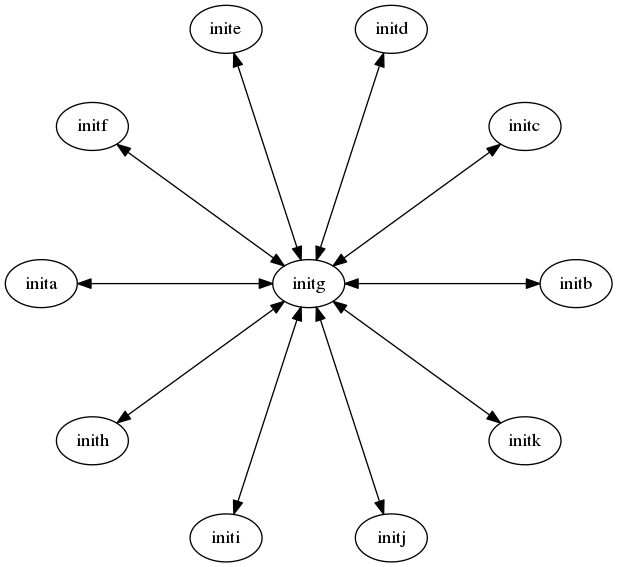
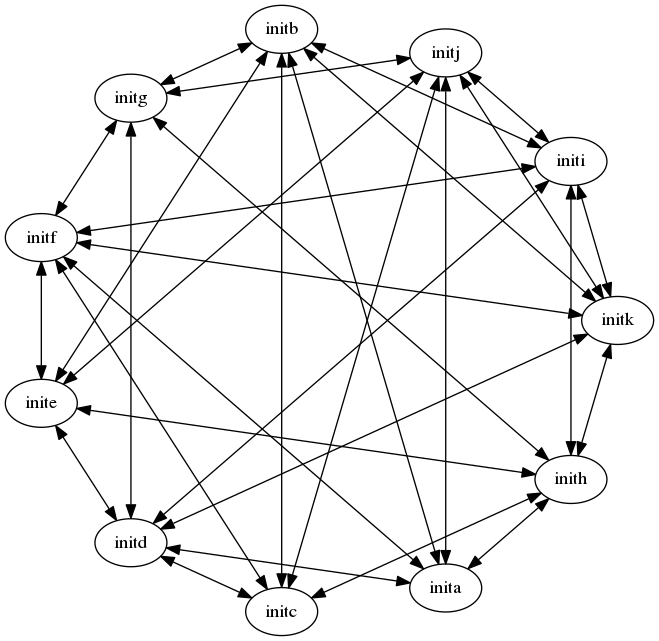
Revise star diagram per Phil's explanation.

diff --git a/testnet.md b/testnet.md
@@ -1,6 +1,6 @@
 [toc]
 
-# EOS Testnet
+#EOS Testnet
 To date, all work done to experiment with the EOS blockchain has been performed using a single instance of eosd hosting all 21 block producers. While this is a perfectly valid solution for validating features of the blockchain, developing new contracts, or whatever, it does not scale. Nor does it expose the sort of issues raised when contract and block data must be shared across multiple instances. Providing the ability to scale involves deploying multiple eosd nodes across many hosts and lining then into a peer-to-peer (p2p) network. Composing this network involves tailoring and distributing configuration files, coordinating starts and stops and other tasks.
 
 Doing this manually is a tedious task and easily error prone. Fortunately a solution is provided, in the form of the Launcher application, described below.
@@ -33,26 +33,26 @@ Network topology or "shape" describes how the nodes are connected in order to sh
 
 The Launcher has definitions of three different network "shapes" based on inter-nodal connections, which can be selected by a command line option, or you can supply your own network topology by editing the Launcher generated configuration file.
 
-#### Ring network
+####Ring network
 ![](ring.png  "Ring Diagram")
 This is the simplest network, where each node identifies just the node next to it as it's only peer. 
 
-#### Star network
+####Star network
 ![](star.png "Star Diagram")
-A "star" is intended to support the use larger number nodes in the testnet. In this case the number of peers connected to a node and the distribution of those nodes varies based on the number of nodes in the network.
+A "star" is intended to support a larger number of nodes in the testnet. In this case the number of peers connected to a node and the distribution of those nodes varies based on the number of nodes in the network.
 
-#### Mesh network
+####Mesh network
 ![](mesh.png "Mesh Diagram")
 In a "mesh" network, each node is connected to as many peer nodes as possible.
 
-# The Launcher Application
+#The Launcher Application
 To address the complexity implied by distributing multiple eosd nodes across a LAN or a wider network, the launcher application was created. 
 
 Based on a handful of command line arguments the Launcher is able to compose per-node configuration files, distribute these files securely amongst the peer hosts, then start up the multiple instances of eosd.
 
 Eosd instances started this way have their output logged in individual text files. Finally the launcher application is also able to shut down some or all of the test network. 
 
-## Running the Launcher application
+##Running the Launcher application
 
 The launcher program is used to configure and deploy producing and non-producing eosd nodes that talk to each other using configured routes. The configuration for each node is stored in separate directories, permitting multiple nodes to be active on the same host, assuming the machine has sufficient memory and disk space for multiple eosd instances. The launcher makes use of multiple configuration sources in order to deploy a testnet. A handful of command line arguments can be used to set up simple local networks. 
 
@@ -143,7 +143,7 @@ The ssh helper fields are paths to ssh and scp, an identity if necessary, and an
 
 The rest of the testnet.json file is the collection of node descriptors. The fragment shown above was created with the command line `programs/launcher/launcher -p6 -s mesh -o testnet.json` and then edited to refer to a remote host named "remoteserv."
 
-### Elements Of The JSON File
+###Elements Of The JSON File
 This table describes all of the key/value pairs used in the testnet.json file.
 
 |Value    | Description
@@ -175,7 +175,7 @@ keys | specify the authentication tokens for this node.
 peers | this list indicates the other nodes in the network to which this one actively connects. Since this file may be edited to alter the hostname, public name, or p2p port values, the peers list here holds aliases for the actual endpoints eventually written to the individual config.ini files.
 producers | this list identifies which of the producers from the genesis.json file are held by this node. Note that the launcher uses a round-robin algorithm to spread the producer instances across the producing nodes.
 
-### Provisioning Distributed Servers
+###Provisioning Distributed Servers
 The ssh_helper section of the testnet.json file contains the ssh elements necessary to connect and issue commands to other servers. In addition to the ssh_helper section which provides access to global configuration settings, the per-node configuration may provide overriding identity and connection arguments.
 
 It is also necessary to provision the server by at least copying the eosd executable, and the genesis.json files to their appropriate locations relative to some named EOS root directory. For example, I defined the EOS root to be `/home/phil/blockchain/eos`. When run, the launcher will run through a variety of shell commands using ssh and finally using scp to copy a config.ini file to the appropriate data directory on the remote.
@@ -194,7 +194,7 @@ The launcher app creates a separate date and configuration directory for each no
 
 A file called "last_run.json" contains hints for a later instance of the launcher to be able to kill local and remote nodes when run with -k. 
 
-# What Remains To Be Done
+#What Remains To Be Done
 
 Functionality that remains to be implemented: caching signed transactions then purging them on a schedule. Sending summaries of blocks rather than whole blocks. Optimizing the routing between nodes. Failover during new node synchronization if a peer fails to respond timely enough
 